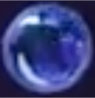
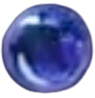
mobile responsive

diff --git a/components/material-section.js b/components/material-section.js
@@ -6,7 +6,7 @@ const MaterialSection = () => {
   return (
     <div className='bg-gradient-to-b from-[#040816] to to-[#1C0B5B] '>
       <section className='section relative flex items-center justify-center sfpro-medium'>
-        <div className='container-wrapper h-full flex items-center justify-center'>
+        <div className='container-wrapper h-full flex items-center justify-center z-[10]'>
           <div className='flex flex-col justify-center'>
             <motion.div
               initial={{ opacity: 0, y: 150 }}
@@ -20,7 +20,7 @@ const MaterialSection = () => {
         </div>
 
         <motion.div
-          className='absolute top-0 translate-y-[-150%] left-[10%]'
+          className='absolute w-[30px] sm:w-[50px] lg:w-full top-0 translate-y-[-150%] left-[10%]'
           animate={{
             scale: [0.4, 0.7, 0.4],
             // y: [-50, -50, -50]
@@ -31,7 +31,7 @@ const MaterialSection = () => {
 
 
         <motion.div
-          className='absolute top-[18%] left-[25%]'
+          className='absolute w-[30px] sm:w-[50px] lg:w-full top-[18%] left-[25%]'
           animate={{
             scale: [0.1, .5, 0.1],
           }}
@@ -40,7 +40,7 @@ const MaterialSection = () => {
         </motion.div>
 
         <motion.div
-          className='absolute top-[68%] left-[35%]'
+          className='absolute w-[30px] sm:w-[50px] lg:w-full top-[68%] left-[35%]'
           animate={{
             scale: [0.1, .5, 0.1],
           }}
@@ -49,7 +49,7 @@ const MaterialSection = () => {
         </motion.div>
 
         <motion.div
-          className='absolute top-[68%] right-[35%]'
+          className='absolute w-[30px] sm:w-[50px] lg:w-full top-[68%] right-[35%]'
           animate={{
             scale: [0.3, .8, 0.3],
           }}
@@ -58,7 +58,7 @@ const MaterialSection = () => {
         </motion.div>
 
         <motion.div
-          className='absolute top-[8%] left-[45%]'
+          className='absolute w-[30px] sm:w-[50px] lg:w-full top-[8%] left-[45%]'
           animate={{
             scale: [0.5, 1, 0.5],
           }}
@@ -67,7 +67,7 @@ const MaterialSection = () => {
         </motion.div>
 
         <motion.div
-          className='absolute top-[5%] right-[2%]'
+          className='absolute w-[30px] sm:w-[50px] lg:w-full top-[5%] right-[2%]'
           animate={{
             scale: [0.4, 0.7, 0.4],
             // rotate: [0, 0, 270, 270, 0],
@@ -78,8 +78,8 @@ const MaterialSection = () => {
         </motion.div>
 
 
-        <img src="./images/blob.png" alt="blob" className='absolute left-0 translate-x-[-50%] top-[40%] w-32 md:w-[180px] lg:w-[200px] xl:w-[300px]' />
-        <img src="./images/blob.png" alt="blob" className='absolute right-0 translate-x-[50%] top-[30%] w-32 md:w-[180px] lg:w-[200px] xl:w-[300px]' />
+        <img src="./images/blob.png" alt="blob" className='absolute left-0 translate-x-[-50%] top-[40%] w-24 sm:w-32 md:w-[180px] lg:w-[200px] xl:w-[300px]' />
+        <img src="./images/blob.png" alt="blob" className='absolute right-0 translate-x-[50%] top-[30%] w-24 sm:w-32 md:w-[180px] lg:w-[200px] xl:w-[300px]' />
       </section>
       <section className='section xl:h-[1000px] flex items-center'>
         <div className='container-wrapper h-full flex items-center justify-center '>

diff --git a/app/globals.css b/app/globals.css
@@ -2,6 +2,9 @@
 @tailwind components;
 @tailwind utilities;
 
+body {
+  overflow-x: hidden;
+}
 
 .container-wrapper {
   @apply w-full max-w-[500px] px-4 sm:px-0 md:max-w-screen-sm lg:max-w-screen-md xl:max-w-screen-lg 2xl:max-w-screen-xl mx-auto;
@@ -21,7 +24,7 @@
 }
 
 .section-header {
-  @apply text-white uppercase sfpro-medium text-center text-2xl sm:text-3xl md:text-4xl lg:text-5xl xl:text-[80px] leading-none mx-auto
+  @apply text-white uppercase sfpro-medium text-center text-3xl sm:text-4xl md:text-5xl lg:text-6xl xl:text-[80px] leading-none mx-auto
 }
 
 .bg-earth {
